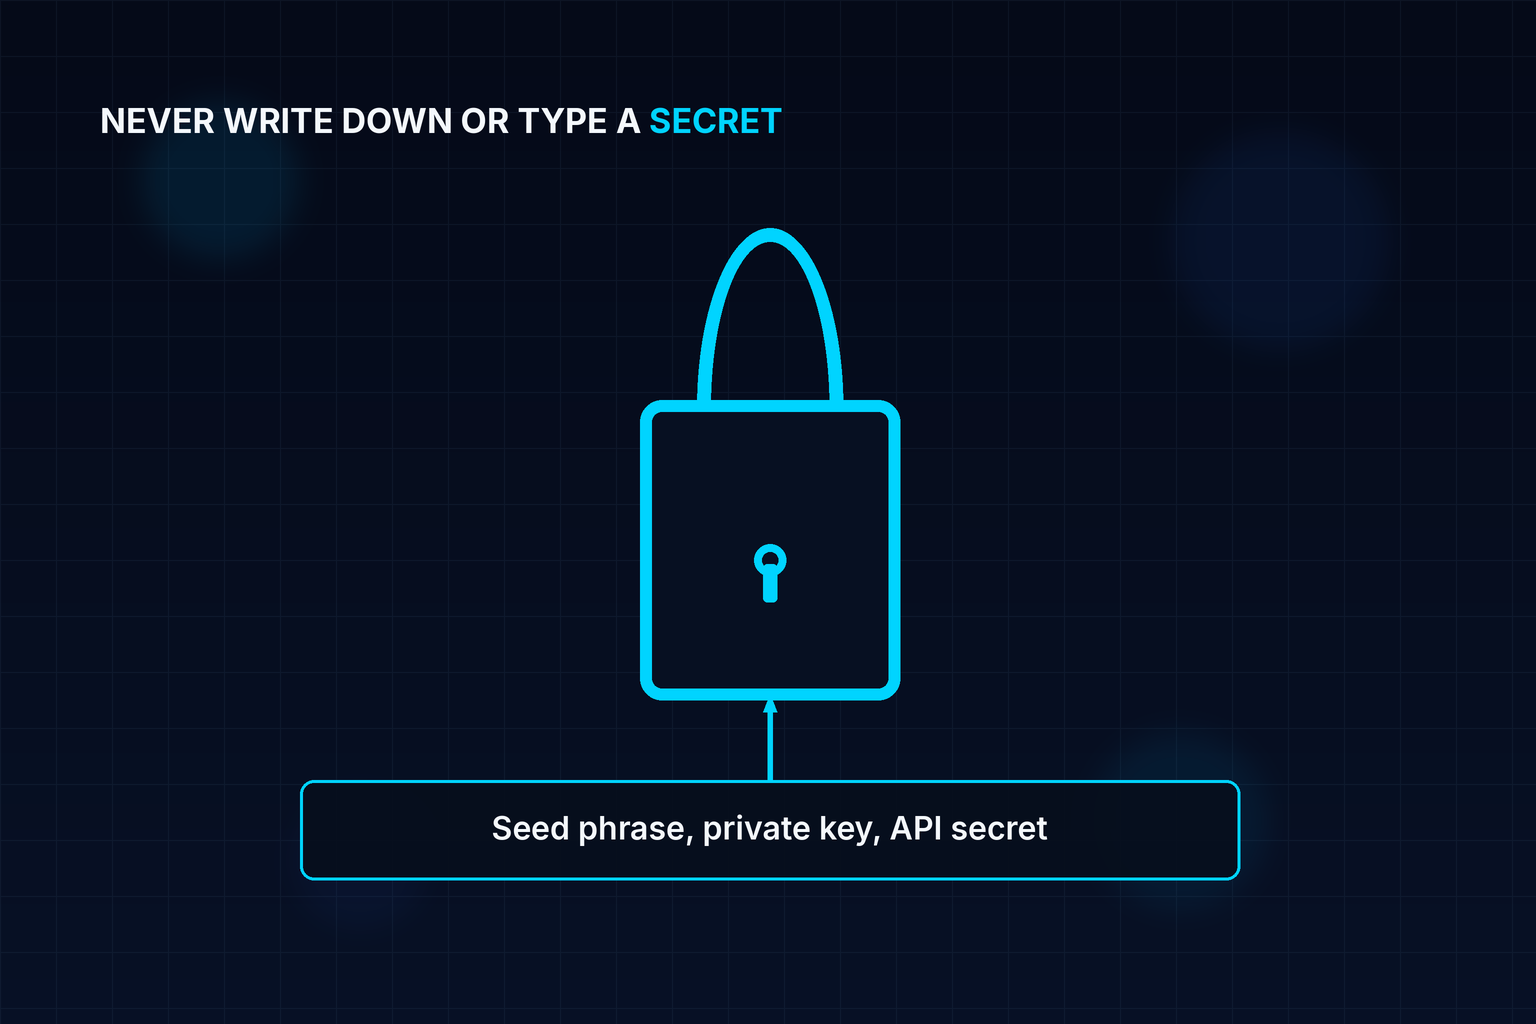
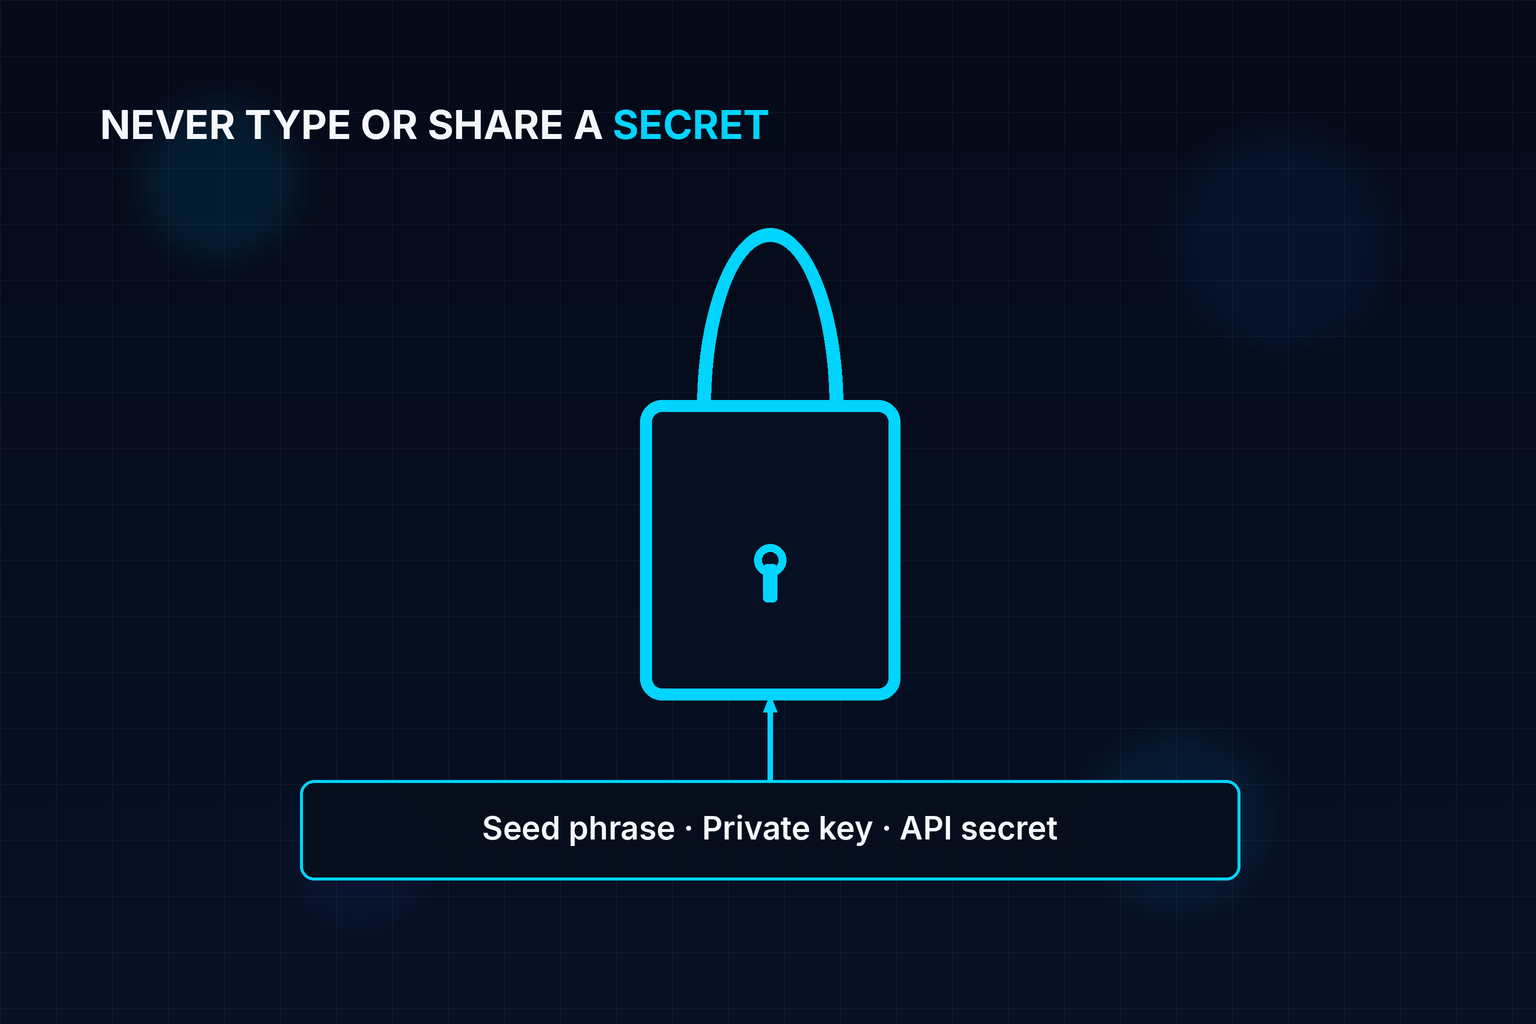
Change the BP-02 008 rule to never type or share a secret.
Writing a seed phrase on paper is the right habit. The lock still names the seed phrase, private key, and API secret.

Changed region(s): [[0.0625, 0.0938, 0.5, 0.1562], [0.3125, 0.7812, 0.4688, 0.8438], [0.5625, 0.7812, 0.6875, 0.8438]]

diff --git a/course/tools/blueprint_cursor_stills/render_queue.py b/course/tools/blueprint_cursor_stills/render_queue.py
@@ -465,19 +465,19 @@ def draw_lock(img, box) -> None:
 
 def bp02_008() -> None:
     img = canvas()
-    head(img, "NEVER WRITE DOWN OR TYPE A SECRET", "SECRET", size=34)
+    head(img, "NEVER TYPE OR SHARE A SECRET", "SECRET", size=40)
     # One lock. The rule is the headline. The line under it names the three.
     draw_lock(img, (640, 400, 900, 700))
     face = font(FONT_SEMI, 32)
-    tag(img, (300, 780, 1240, 880), ["Seed phrase, private key, API secret"], face)
+    tag(img, (300, 780, 1240, 880), ["Seed phrase · Private key · API secret"], face)
     arrow(img, (770, 780), (770, 694))
     final = save(img, "course/images/bp-02-what-you-need/008.png")
     assert_tip(final, (770, 694), (770, 700), "lock")
     record([{
         "path": "course/images/bp-02-what-you-need/008.png",
         "lesson": "bp-02-what-you-need",
-        "shows": "One lock. The rule is never write down or type a secret. A line names the seed phrase, the private key, and the API secret.",
-        "alt": "Never write down or type a secret: a seed phrase, a private key, or an API secret.",
+        "shows": "One lock. The rule is never type or share a secret. A line names the seed phrase, the private key, and the API secret.",
+        "alt": "Never type or share a secret: a seed phrase, a private key, or an API secret.",
         "batch": "cursor-bp02-008",
     }])
 
